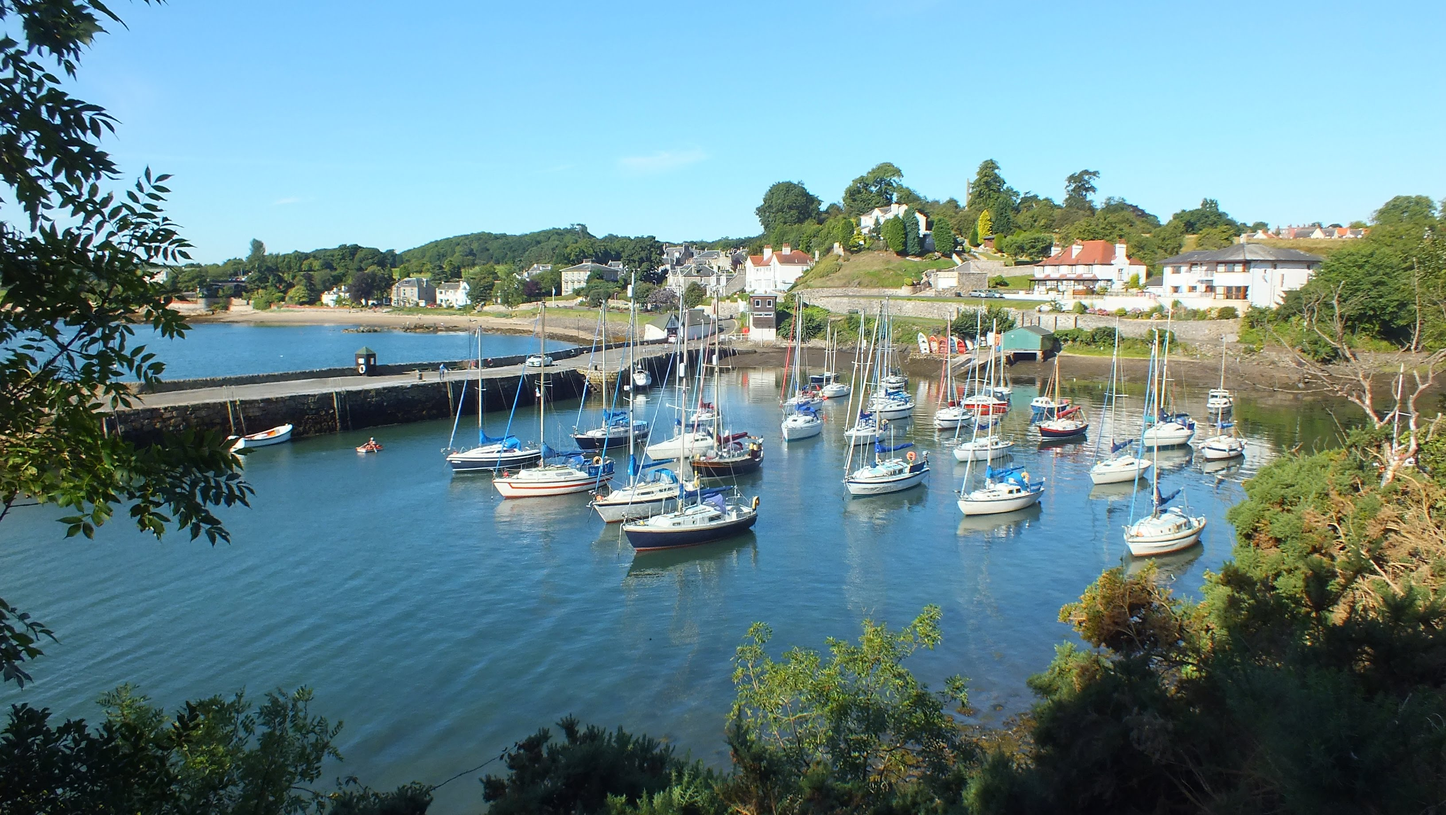
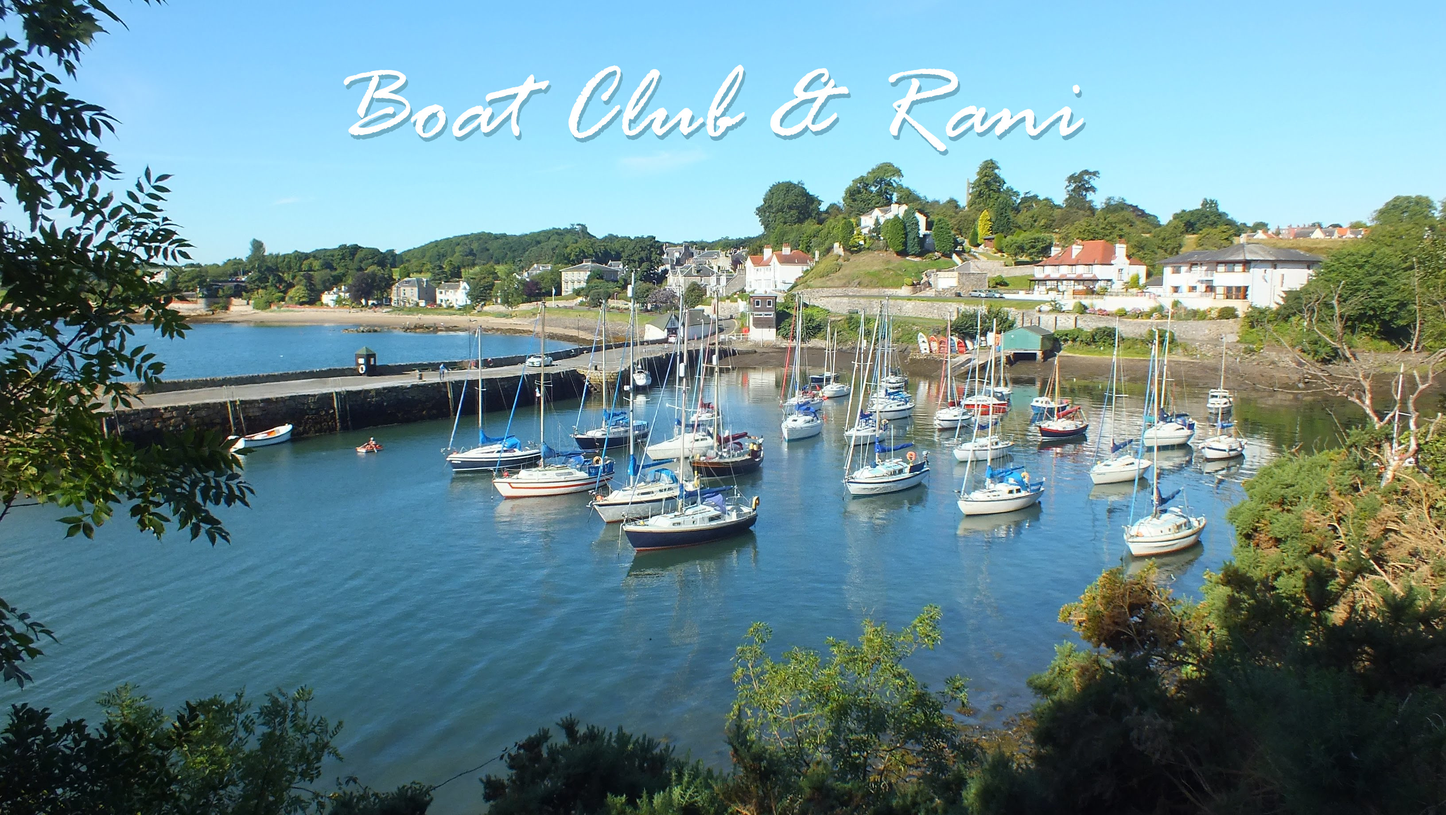
fixed index padding-top problem, remove moorings.css import but moved the background css code into m_header.css

Changed region(s): [[0.2188, 0.062, 0.75, 0.1859]]

diff --git a/WebContent/index.html b/WebContent/index.html
@@ -4,17 +4,11 @@
 <meta charset="UTF-8">
 <title>Moorings &amp; Rani</title>
 <meta name="viewport" content="width=device-width, initial-scale=1">
-<!--    <script src="https://code.jquery.com/jquery-3.2.1.slim.min.js" integrity="sha384-KJ3o2DKtIkvYIK3UENzmM7KCkRr/rE9/Qpg6aAZGJwFDMVNA/GpGFF93hXpG5KkN" crossorigin="anonymous"></script>
-    <script src="https://cdnjs.cloudflare.com/ajax/libs/popper.js/1.11.0/umd/popper.min.js" integrity="sha384-b/U6ypiBEHpOf/4+1nzFpr53nxSS+GLCkfwBdFNTxtclqqenISfwAzpKaMNFNmj4" crossorigin="anonymous"></script>
-    <script src="https://maxcdn.bootstrapcdn.com/bootstrap/4.0.0-beta/js/bootstrap.min.js" integrity="sha384-h0AbiXch4ZDo7tp9hKZ4TsHbi047NrKGLO3SEJAg45jXxnGIfYzk4Si90RDIqNm1" crossorigin="anonymous"></script> -->
-<link
-	href="//maxcdn.bootstrapcdn.com/bootstrap/3.3.0/css/bootstrap.min.css"
-	rel="stylesheet" id="bootstrap-css">
+<link href="//maxcdn.bootstrapcdn.com/bootstrap/3.3.0/css/bootstrap.min.css" rel="stylesheet" id="bootstrap-css">
 <script src="//code.jquery.com/jquery-1.11.1.min.js"></script>
-<script
-	src="//maxcdn.bootstrapcdn.com/bootstrap/3.3.0/js/bootstrap.min.js"></script>
+<script	src="//maxcdn.bootstrapcdn.com/bootstrap/3.3.0/js/bootstrap.min.js"></script>
 <link rel="stylesheet" type="text/css" href="./css/m_header.css" />
-<link rel="stylesheet" type="text/css" href="./css/moorings.css" />
+<!-- <link rel="stylesheet" type="text/css" href="./css/moorings.css" /> -->
 <link rel="stylesheet" type="text/css" href="./css/dropdown.css" />
 <script type="text/javascript" src="./js/userForm.js"></script>
 <script type="text/javascript" src="./js/adminForm.js"></script>
@@ -24,11 +18,10 @@
 
 </head>
 <body>
-	<div class="header closer">
-		<h1>
-			<font size="+9">Boat Club &amp; Rani</font>
-		</h1>
+	<div>
+		<img src="/Oved266Blue/pics/homeBG.jpg" style="max-width: 100%;"/>
 	</div>
+	
 	<div class="container">
 		<div class="row">
 			<div id='cssmenu'>
@@ -40,55 +33,57 @@
 								<div class="active parentNode grandparentNode">
 									<a href='#'>User Login</a>
 								</div>
-
 							</li>
-
-							<li><div class="active parentNodeAdm grandparentNodeAdm">
+							<li>
+								<div class="active parentNodeAdm grandparentNodeAdm">
 									<a href='#'>Administrator</a>
-								</div></li>
-
-						</ul></li>
-
-
+								</div>
+							</li>
+						</ul>
+					</li>
 					<li class='active closer'><a href='#'>Our Moorings</a>
-														<ul>
-									<li><a href='moorings.html'>Check Availability</a></li>
-									<li><a href='#'>Pictures</a></li>
-														</ul></li>
-					<li><a href='about.html'>About</a></li>
-					<li><a href='contact.html'>Contact Us</a></li>
+						<ul>
+							<li>
+								<a href='moorings.html'>Check Availability</a>
+							</li>
+							<li>
+								<a href='#'>Pictures</a>
+							</li>
+						</ul>
+					</li>
+					<li>
+						<a href='about.html'>About</a>
+					</li>
+					<li>
+						<a href='contact.html'>Contact Us</a>
+					</li>
 				</ul>
 			</div>
 		</div>
 	</div>
 
-
 	<!-- User Login Form -->
-
 	<div class="row childNode">
 		<div class="childNode dropdown-menu" id=form>
 			<form class="px-4 py-3 childNode">
 				<div class="form-group childNode">
-					<label for="exampleDropdownFormEmail1">Email address</label> <input
-						type="email" class="form-control" id="exampleDropdownFormEmail1"
-						placeholder="email@example.com">
+					<label for="exampleDropdownFormEmail1">Email address</label> 
+						<input type="email" class="form-control" id="exampleDropdownFormEmail1"	placeholder="email@example.com">
 				</div>
 				<div class="form-group">
-					<label for="exampleDropdownFormPassword1">Password</label> <input
-						type="password" class="form-control"
-						id="exampleDropdownFormPassword1">
+					<label for="exampleDropdownFormPassword1">Password</label>
+						<input type="password" class="form-control"	id="exampleDropdownFormPassword1">
 				</div>
-
 				<button type="submit" class="btn btn-primary">Sign in</button>
 			</form>
 			<div class="dropdown-divider"></div>
-			<a class="dropdown-item" href="#">New around here? Sign up</a><br />
-			<a class="dropdown-item" href="#">Forgot password?</a><br /> <a
-				class="dropdown-item closer" style="color: red;" href="#">Close
-				Form</a>
+			<a class="dropdown-item" href="#">New around here? Sign up</a>
+			<br />
+			<a class="dropdown-item" href="#">Forgot password?</a>
+			<br />
+			<a class="dropdown-item closer" style="color: red;" href="#">Close Form</a>
 		</div>
 	</div>
-
 	<!-- Admin Login Form -->
 
 	<div class="row childNodeAdm">
@@ -96,31 +91,21 @@
 			<form action="./admin.html" class="px-4 py-3 childNodeAdm">
 				<div class="form-group childNodeAdm">
 					<label for="exampleDropdownFormEmail2">ADMIN Email address</label>
-					<input type="email" class="form-control"
-						id="exampleDropdownFormEmail2" placeholder="email@boaterrani.com">
+					<input type="email" class="form-control" id="exampleDropdownFormEmail2" placeholder="email@boaterrani.com">
 				</div>
 				<div class="form-group">
-					<label for="exampleDropdownFormPassword">Password</label> <input
-						type="password" class="form-control"
-						id="exampleDropdownFormPassword">
+					<label for="exampleDropdownFormPassword">Password</label> 
+					<input type="password" class="form-control" id="exampleDropdownFormPassword">
 				</div>
-
 				<button type="submit" class="btn btn-primary">Sign in</button>
 			</form>
-
 			<div class="dropdown-divider"></div>
-			<a class="dropdown-item" href="#">Forgot password?</a><br /> <a
-				class="dropdown-item closer" style="color: red;" href="#">Close
-				Form</a><br /> <a class="dropdown-item"></a>
+			<a class="dropdown-item" href="#">Forgot password?</a>
+			<br />
+			<a class="dropdown-item closer" style="color: red;" href="#">Close Form</a>
+			<br />
+			<a class="dropdown-item"></a>
 		</div>
 	</div>
-
-
-
-
-	<img class="d-block mx-auto mb-4"
-		src="https://messaufficio.com/wp-content/uploads/2018/01/internet-logo-300x300.png"
-		width="72" height="72">
-
 </body>
 </html>

diff --git a/WebContent/css/m_header.css b/WebContent/css/m_header.css
@@ -1,18 +1,9 @@
-.header {
-	margin: 0;
-	padding: 0;
-	background: white url('/Oved266Blue/pics/homeBG.jpg') no-repeat center center;
-	max-width : 100%;
-	max-height: 100%;
-	text-align: center;
-	height: 500px;
-	background-repeat: no-repeat;
-	background-size: cover;
-	padding-top: 160px;
-	max-width: 100%;
+body {
+	background: white url('/Oved266Blue/pics/white-waves.png') 0 0;
+ 	-webkit-animation: slide 20s linear infinite;
 }
 
-.header h1 {
-	font-family: sans-serif;
-	color: white;
+@-webkit-keyframes slide {
+    from { background-position: 0 0; }
+    to { background-position: -250px 0px; }
 }

diff --git a/WebContent/js/moorings.js b/WebContent/js/moorings.js
@@ -1,7 +1,3 @@
-/**
- * 
- */
-
 $(function() {
 //	var c = document.getElementsByClassName("rowOnMoorings");
 	console.log('Jquery working!');
@@ -34,10 +30,3 @@ $(function() {
 	});
 	
 });
-
-
-
-
-
-
-
